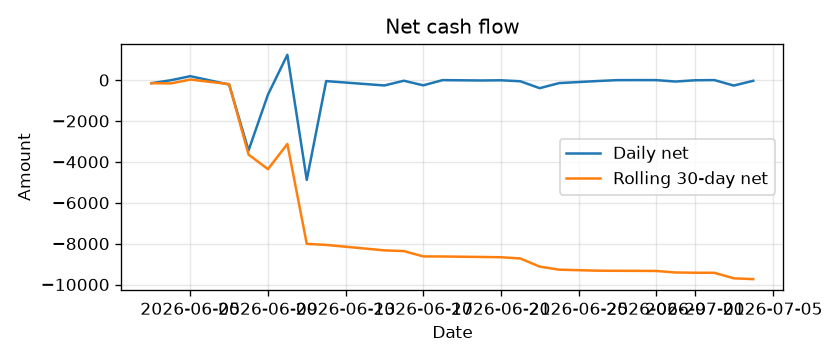
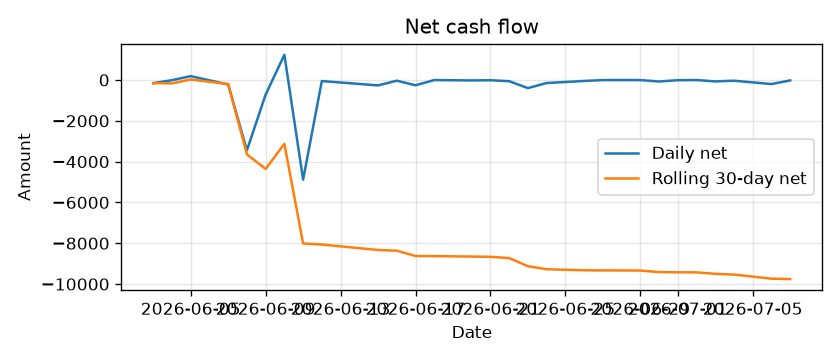
.

diff --git a/static/css/web/web.css b/static/css/web/web.css
@@ -4168,3 +4168,240 @@ html[data-theme="night"] .bill-items-list div {
   flex: 0 0 1.35em;
   margin-right: .2rem;
 }
+
+/* Patch: aligned sidebar navigation grid + Search page without duplicate input. */
+.app-sidebar-nav-clean {
+  --nav-group-icon-slot: 1.75rem;
+  --nav-subgroup-icon-slot: 1.55rem;
+  --nav-link-dot-slot: .85rem;
+  --nav-link-icon-slot: 1.55rem;
+}
+
+.app-sidebar-nav-clean .app-nav-group > summary,
+.app-sidebar-nav-clean .nav-subgroup > summary {
+  display: grid !important;
+  align-items: center !important;
+  justify-content: stretch !important;
+  text-align: left !important;
+  column-gap: .62rem !important;
+}
+
+.app-sidebar-nav-clean .app-nav-group > summary {
+  grid-template-columns: var(--nav-group-icon-slot) minmax(0, 1fr) !important;
+  padding-left: clamp(4.6rem, 28%, 5.75rem) !important;
+  padding-right: 2.55rem !important;
+}
+
+.app-sidebar-nav-clean .nav-subgroup > summary {
+  grid-template-columns: var(--nav-subgroup-icon-slot) minmax(0, 1fr) !important;
+  padding-left: clamp(3.35rem, 23%, 4.25rem) !important;
+  padding-right: 2.35rem !important;
+}
+
+.app-sidebar-nav-clean .app-nav-group > summary .nav-icon,
+.app-sidebar-nav-clean .nav-subgroup > summary .nav-icon {
+  width: 100%;
+  min-width: 0;
+  margin: 0 !important;
+  display: inline-grid;
+  place-items: center;
+  text-align: center;
+  line-height: 1;
+}
+
+.app-sidebar-nav-clean .app-nav-group > summary::after,
+.app-sidebar-nav-clean .nav-subgroup > summary::after {
+  position: absolute !important;
+  right: .95rem !important;
+  top: 50% !important;
+}
+
+.app-sidebar-nav-clean .nav-items > a,
+.app-sidebar-nav-clean .nav-subitems a {
+  display: grid !important;
+  grid-template-columns: var(--nav-link-dot-slot) var(--nav-link-icon-slot) minmax(0, 1fr);
+  align-items: center !important;
+  column-gap: .42rem !important;
+  text-align: left !important;
+  padding-left: .9rem !important;
+  padding-right: .75rem !important;
+}
+
+.app-sidebar-nav-clean .nav-items > a::before,
+.app-sidebar-nav-clean .nav-subitems a::before {
+  content: "";
+  grid-column: 1;
+  width: .36rem;
+  height: .36rem;
+  border-radius: 999px;
+  margin: 0 auto !important;
+  background: rgba(100, 116, 139, .28);
+  transform: none !important;
+  opacity: 1 !important;
+}
+
+.app-sidebar-nav-clean .nav-items > a.active::before,
+.app-sidebar-nav-clean .nav-subitems a.active::before {
+  background: linear-gradient(135deg, #22d3ee, #6366f1);
+  box-shadow: 0 0 16px rgba(99, 102, 241, .42);
+}
+
+.app-sidebar-nav-clean .nav-link-icon {
+  grid-column: 2;
+  width: 100%;
+  min-width: 0;
+  margin: 0 !important;
+  display: inline-grid;
+  place-items: center;
+  text-align: center;
+  line-height: 1;
+}
+
+.search-page-helper {
+  display: flex;
+  align-items: center;
+  justify-content: flex-end;
+  flex-wrap: wrap;
+  gap: .65rem;
+  margin-left: auto;
+}
+.search-page-helper .pill-muted {
+  display: inline-flex;
+  align-items: center;
+  min-height: 2.4rem;
+  padding: .62rem .85rem;
+  border-radius: 999px;
+  color: rgba(15, 23, 42, .66);
+  background: rgba(255, 255, 255, .54);
+  border: 1px solid rgba(148, 163, 184, .22);
+  font-weight: 850;
+}
+.compact-command-btn {
+  min-height: 2.45rem;
+  padding-inline: .95rem;
+  white-space: nowrap;
+}
+@media (max-width: 760px) {
+  .search-page-helper {
+    justify-content: flex-start;
+    width: 100%;
+  }
+}
+
+/* Patch: left-start sidebar alignment + hide legacy topbar search UI.
+   Keep the search form in the DOM, but do not show it because Smart Search/Ctrl+K is now the main entry point. */
+.topbar-global-search {
+  display: none !important;
+}
+
+/* Sidebar rows: start like normal rows, with a fixed icon column and a fixed text start. */
+.app-sidebar-nav-clean {
+  --nav-main-left: .95rem;
+  --nav-sub-left: .85rem;
+  --nav-item-left: .7rem;
+  --nav-icon-col: 2rem;
+  --nav-dot-col: .75rem;
+  --nav-text-gap: .55rem;
+}
+
+.app-sidebar-nav-clean .app-nav-group > summary,
+.app-sidebar-nav-clean .nav-subgroup > summary {
+  display: grid !important;
+  align-items: center !important;
+  justify-content: stretch !important;
+  justify-items: stretch !important;
+  text-align: left !important;
+  column-gap: var(--nav-text-gap) !important;
+  white-space: normal !important;
+}
+
+.app-sidebar-nav-clean .app-nav-group > summary {
+  grid-template-columns: var(--nav-icon-col) minmax(0, 1fr) auto !important;
+  padding-left: var(--nav-main-left) !important;
+  padding-right: .9rem !important;
+}
+
+.app-sidebar-nav-clean .nav-subgroup > summary {
+  grid-template-columns: var(--nav-icon-col) minmax(0, 1fr) auto !important;
+  padding-left: var(--nav-sub-left) !important;
+  padding-right: .78rem !important;
+}
+
+.app-sidebar-nav-clean .app-nav-group > summary .nav-icon,
+.app-sidebar-nav-clean .nav-subgroup > summary .nav-icon {
+  grid-column: 1 !important;
+  width: var(--nav-icon-col) !important;
+  min-width: var(--nav-icon-col) !important;
+  max-width: var(--nav-icon-col) !important;
+  margin: 0 !important;
+  display: inline-grid !important;
+  place-items: center !important;
+  text-align: center !important;
+  line-height: 1 !important;
+}
+
+.app-sidebar-nav-clean .app-nav-group > summary::after,
+.app-sidebar-nav-clean .nav-subgroup > summary::after {
+  position: static !important;
+  grid-column: 3 !important;
+  justify-self: end !important;
+  align-self: center !important;
+  margin: 0 !important;
+  transform: none !important;
+  right: auto !important;
+  top: auto !important;
+}
+
+.app-sidebar-nav-clean .app-nav-group[open] > summary::after,
+.app-sidebar-nav-clean .nav-subgroup[open] > summary::after {
+  transform: rotate(180deg) !important;
+}
+
+.app-sidebar-nav-clean .nav-subgroup > summary::after {
+  content: "›" !important;
+  transition: transform .16s ease;
+}
+
+.app-sidebar-nav-clean .nav-subgroup[open] > summary::after {
+  transform: rotate(90deg) !important;
+}
+
+.app-sidebar-nav-clean .nav-items > a,
+.app-sidebar-nav-clean .nav-subitems a {
+  display: grid !important;
+  grid-template-columns: var(--nav-dot-col) var(--nav-icon-col) minmax(0, 1fr) !important;
+  align-items: center !important;
+  justify-content: stretch !important;
+  text-align: left !important;
+  column-gap: .48rem !important;
+  padding-left: var(--nav-item-left) !important;
+  padding-right: .75rem !important;
+}
+
+.app-sidebar-nav-clean .nav-items > a::before,
+.app-sidebar-nav-clean .nav-subitems a::before {
+  grid-column: 1 !important;
+  justify-self: center !important;
+  margin: 0 !important;
+}
+
+.app-sidebar-nav-clean .nav-link-icon {
+  grid-column: 2 !important;
+  width: var(--nav-icon-col) !important;
+  min-width: var(--nav-icon-col) !important;
+  max-width: var(--nav-icon-col) !important;
+  margin: 0 !important;
+  display: inline-grid !important;
+  place-items: center !important;
+  text-align: center !important;
+  line-height: 1 !important;
+}
+
+@media (max-width: 1180px) {
+  .app-sidebar-nav-clean {
+    --nav-main-left: .75rem;
+    --nav-sub-left: .7rem;
+    --nav-item-left: .55rem;
+    --nav-icon-col: 1.75rem;
+  }
+}

diff --git a/money_manager/web/templates/base.html b/money_manager/web/templates/base.html
@@ -130,13 +130,13 @@
         {% if has_active_account %}
           <a class="nav-back-card" href="{{ url_for('accounts.accounts_page') }}">← Back to all Conti</a>
           <details class="nav-group app-nav-group is-active" open>
-            <summary>{{ account_label|text_masked }}</summary>
+            <summary><span class="nav-icon" aria-hidden="true">🏦</span> {{ account_label|text_masked }}</summary>
             <div class="nav-items">
-              {% if endpoint_exists('accounts.account_detail') %}<a href="{{ url_for('accounts.account_detail', account_key=active_account_id) }}" class="{{ 'active' if request.endpoint in ['accounts.account_detail', 'accounts.account_payment_method_detail'] else '' }}">Conto home</a>{% endif %}
+              {% if endpoint_exists('accounts.account_detail') %}<a href="{{ url_for('accounts.account_detail', account_key=active_account_id) }}" class="{{ 'active' if request.endpoint in ['accounts.account_detail', 'accounts.account_payment_method_detail'] else '' }}"><span class="nav-link-icon">🏠</span> Conto home</a>{% endif %}
               {% if endpoint_exists('transactions.transactions_page') %}<a href="{{ url_for('transactions.transactions_page', account_id=active_account_id) }}" class="{{ 'active' if request.endpoint == 'transactions.transactions_page' else '' }}"><span class="nav-link-icon">↕</span> Transactions</a>{% endif %}
-              {% if endpoint_exists('dashboard.overview') %}<a href="{{ url_for('dashboard.overview', account_id=active_account_id) }}" class="{{ 'active' if request.endpoint == 'dashboard.overview' else '' }}">Quick overview</a>{% endif %}
-              {% if endpoint_exists('dashboard.overview_detailed') %}<a href="{{ url_for('dashboard.overview_detailed', account_id=active_account_id) }}" class="{{ 'active' if request.endpoint == 'dashboard.overview_detailed' else '' }}">Detailed overview</a>{% endif %}
-              {% if endpoint_exists('net_explanation.net_explanation') %}<a href="{{ url_for('net_explanation.net_explanation', account_id=active_account_id) }}" class="{{ 'active' if request.endpoint == 'net_explanation.net_explanation' else '' }}">Why this net?</a>{% endif %}
+              {% if endpoint_exists('dashboard.overview') %}<a href="{{ url_for('dashboard.overview', account_id=active_account_id) }}" class="{{ 'active' if request.endpoint == 'dashboard.overview' else '' }}"><span class="nav-link-icon">📌</span> Quick overview</a>{% endif %}
+              {% if endpoint_exists('dashboard.overview_detailed') %}<a href="{{ url_for('dashboard.overview_detailed', account_id=active_account_id) }}" class="{{ 'active' if request.endpoint == 'dashboard.overview_detailed' else '' }}"><span class="nav-link-icon">▦</span> Detailed overview</a>{% endif %}
+              {% if endpoint_exists('net_explanation.net_explanation') %}<a href="{{ url_for('net_explanation.net_explanation', account_id=active_account_id) }}" class="{{ 'active' if request.endpoint == 'net_explanation.net_explanation' else '' }}"><span class="nav-link-icon">?</span> Why this net?</a>{% endif %}
             </div>
           </details>
         {% else %}
@@ -293,9 +293,9 @@
           <h1>{% block page_title %}{{ t("app.name") }}{% endblock %}</h1>
         </div>
         <div class="app-topbar-actions">
-          {% if is_authenticated and endpoint_exists('search.search_page') %}
+          {% if is_authenticated and endpoint_exists('search.search_page') and request.endpoint != 'search.search_page' %}
           <form class="topbar-global-search" method="get" action="{{ url_for('search.search_page') }}">
-            <input type="search" name="q" value="{{ request.args.get('q', '') if request.endpoint == 'search.search_page' else '' }}" placeholder="Search..." aria-label="Search Money Manager">
+            <input type="search" name="q" value="" placeholder="Search..." aria-label="Search Money Manager">
             <button type="submit">⌕</button>
           </form>
           {% endif %}

diff --git a/money_manager/web/templates/search.html b/money_manager/web/templates/search.html
@@ -8,9 +8,9 @@
     <h2>Search Money Manager</h2>
     <p>Find accounts, cards/payment methods, transactions, pending items, recurring rules, payables, contacts and safe document metadata.</p>
   </div>
-  <div class="search-hero-actions">
-    <span class="soft-chip">Use the top search bar</span>
-    <span class="soft-chip">or press Ctrl + K</span>
+  <div class="search-page-helper" aria-label="Search shortcuts">
+    <span class="pill-muted">Use the global search from any page</span>
+    <button type="button" class="secondary-btn compact-command-btn" data-command-palette-open>⌘K Smart search</button>
   </div>
 </section>
 
@@ -47,6 +47,6 @@
     {% endfor %}
   </section>
 {% else %}
-  <section class="panel-card"><p class="empty">Use the top search bar or press Ctrl + K to search across the app.</p></section>
+  <section class="panel-card"><p class="empty">Use the top navigation search from any other page, or press Ctrl + K to open Smart Search.</p></section>
 {% endif %}
 {% endblock %}